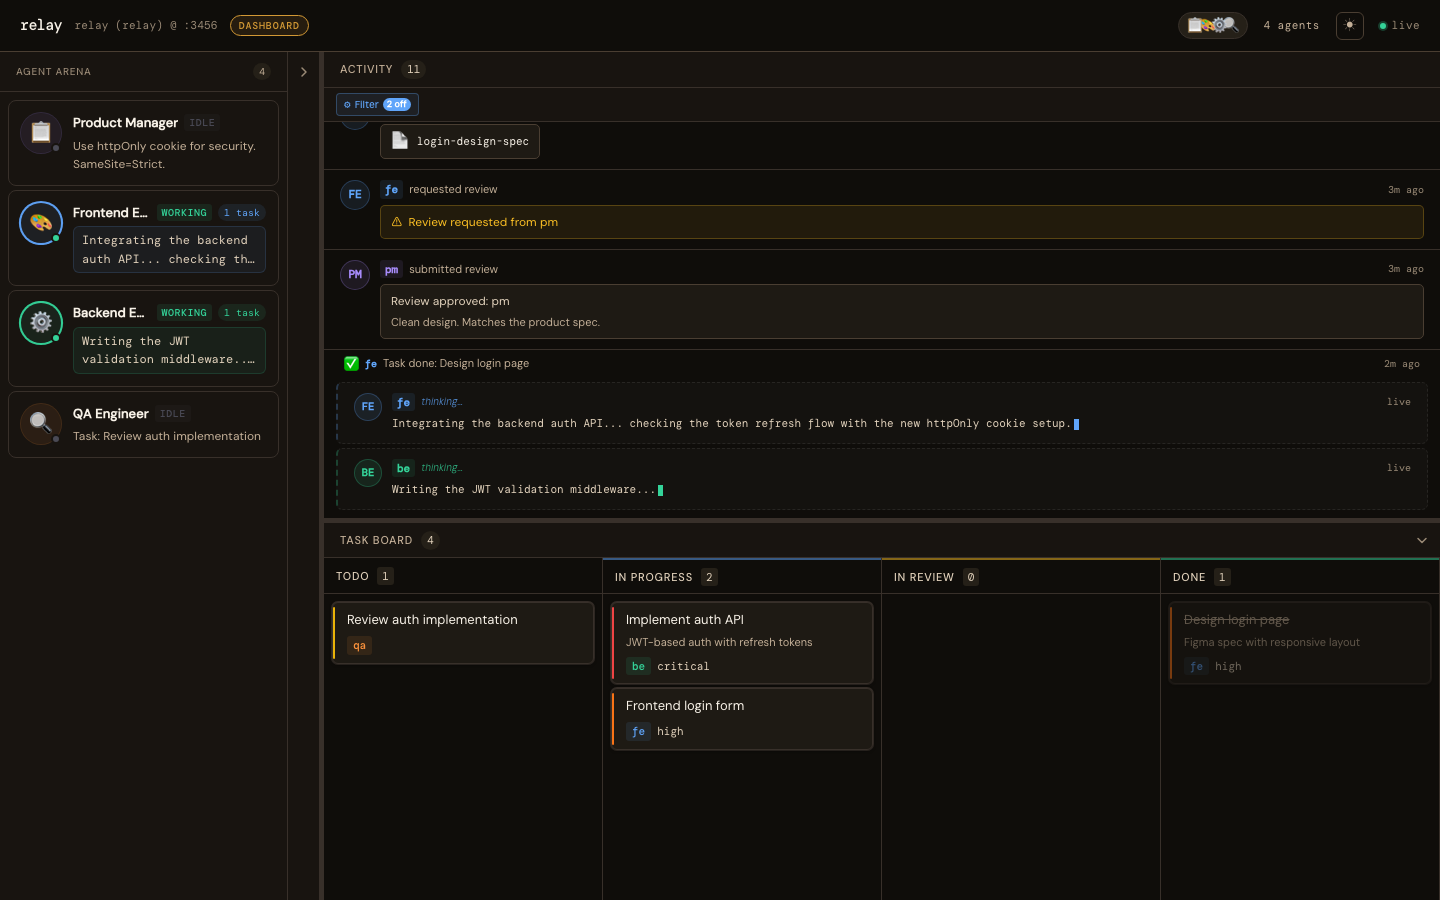
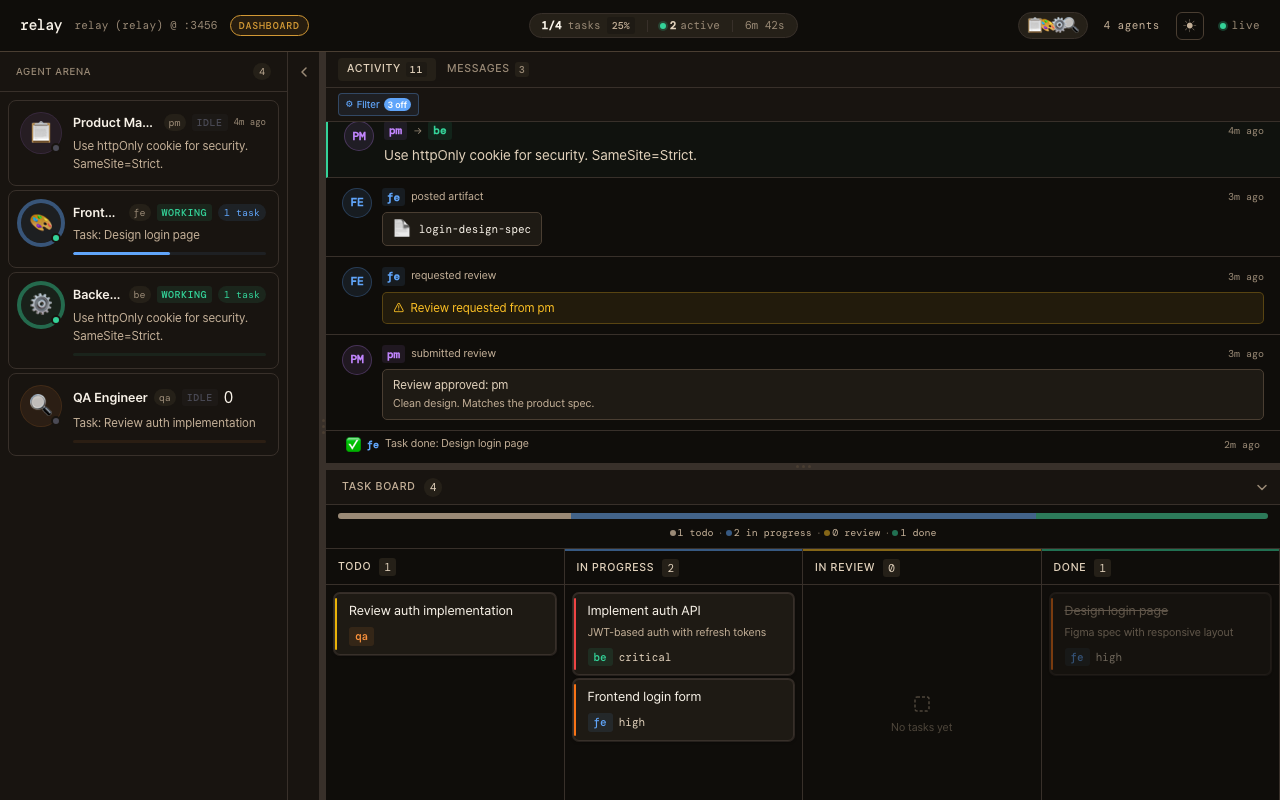
docs: update dashboard documentation and screenshots for new UX features
- Rewrite dashboard guide (EN/KO) with all new features
- Update introduction "Watch it happen live" section (EN/KO)
- Update quick-start dashboard description (EN/KO)
- Update README dashboard section (EN/KO)
- Replace dashboard screenshots with Storybook captures showing new features
- Add component-specific Storybook screenshots (taskboard, agentcard, activityfeed, applayout)

diff --git a/README.ko.md b/README.ko.md
@@ -106,11 +106,15 @@ relay (plugin)
 
 ![relay 대시보드](./packages/docs/public/screenshots/dashboard-ko.png)
 
-**Agent Arena** (좌) — 세션의 모든 에이전트와 실시간 상태(`idle` / `working` / `waiting`), 현재 생각의 스니펫을 보여줘요. 클릭하면 Activity Feed를 해당 에이전트 기준으로 필터링해요.
+**세션 진행 위젯** (헤더) — 태스크 완료 비율, 활성 에이전트 수, 경과 시간을 한눈에 보여줘요.
 
-**Activity Feed** (우상단) — 모든 이벤트를 실시간 타임라인으로 표시해요: 메시지, 태스크 업데이트, 아티팩트, 리뷰 요청, 에이전트 추론 스트림. 이벤트 타입과 에이전트로 필터 가능해요. **Messages** 탭으로 전환하면 에이전트 간 대화를 Slack 스레드 형식으로 볼 수 있어요.
+**Agent Arena** (좌) — 세션의 모든 에이전트와 실시간 상태, 현재 생각의 스니펫을 보여줘요. 각 카드에 태스크 완료 미니 바가 표시돼요. 클릭하면 Activity Feed를 해당 에이전트 기준으로 필터링해요.
 
-**Task Board** (하단, 접을 수 있음) — `todo → in_progress → in_review → done` Kanban. 태스크 클릭 시 상세 모달이 열려요.
+**Activity Feed** (우상단) — 모든 이벤트를 실시간 타임라인으로 표시해요: 메시지, 태스크 업데이트, 아티팩트, 리뷰 요청, 에이전트 추론 스트림. 이벤트 타입과 에이전트로 필터 가능해요. 키보드 단축키(`j`/`k`/`Enter`/`Escape`)로 탐색할 수 있어요.
+
+**Task Board** (하단, 접을 수 있음) — 상단에 색상별 프로그레스 바가 있는 Kanban. 태스크 카드에 의존성 표시("Blocked by N" / "Blocks N tasks")가 나타나요. 클릭하면 의존성 시각화가 포함된 상세 모달이 열려요.
+
+**모바일** — 좁은 화면에서는 3패널 레이아웃 대신 Agents / Activity / Tasks 탭이 있는 하단 탭 바로 전환돼요.
 
 세션 데이터는 서버 프로세스가 살아있는 동안 in-memory로 유지돼요. 헤더의 세션 스위처로 현재 실행 중 생성된 세션 간 이동할 수 있어요.
 

diff --git a/README.md b/README.md
@@ -106,11 +106,15 @@ The MCP server starts a live dashboard at session start (default `http://localho
 
 ![relay dashboard](./packages/docs/public/screenshots/dashboard-en.png)
 
-**Agent Arena** (left) — all session agents with live status (`idle` / `working` / `waiting`) and a snippet of their current thinking. Click any agent to focus the Activity Feed on them.
+**Session Progress** (header) — task completion ratio, active agent count, and elapsed time at a glance.
 
-**Activity Feed** (top right) — real-time timeline of every event: messages, task updates, artifact posts, review requests, and agent thinking streams. Filter by event type or agent. Switch to the **Messages** tab for a Slack-style thread view of all inter-agent conversations.
+**Agent Arena** (left) — all session agents with live status and current thinking. Each card includes a task completion mini-bar. Click any agent to focus the Activity Feed.
 
-**Task Board** (bottom, collapsible) — Kanban across `todo → in_progress → in_review → done`. Click any task for the detail modal.
+**Activity Feed** (top right) — real-time timeline of every event: messages, task updates, artifacts, reviews, and agent thinking streams. Filter by event type or agent. Navigate with keyboard shortcuts (`j`/`k`/`Enter`/`Escape`).
+
+**Task Board** (bottom, collapsible) — Kanban with a color-coded progress bar at the top. Task cards show dependency indicators ("Blocked by N" / "Blocks N tasks"). Click any task for the detail modal with dependency visualization.
+
+**Mobile** — on narrow screens, a bottom tab bar replaces the three-panel layout with Agents / Activity / Tasks tabs.
 
 Session data lives in-memory for the duration of the server process. The session switcher in the header lets you navigate between sessions from the current run.
 
